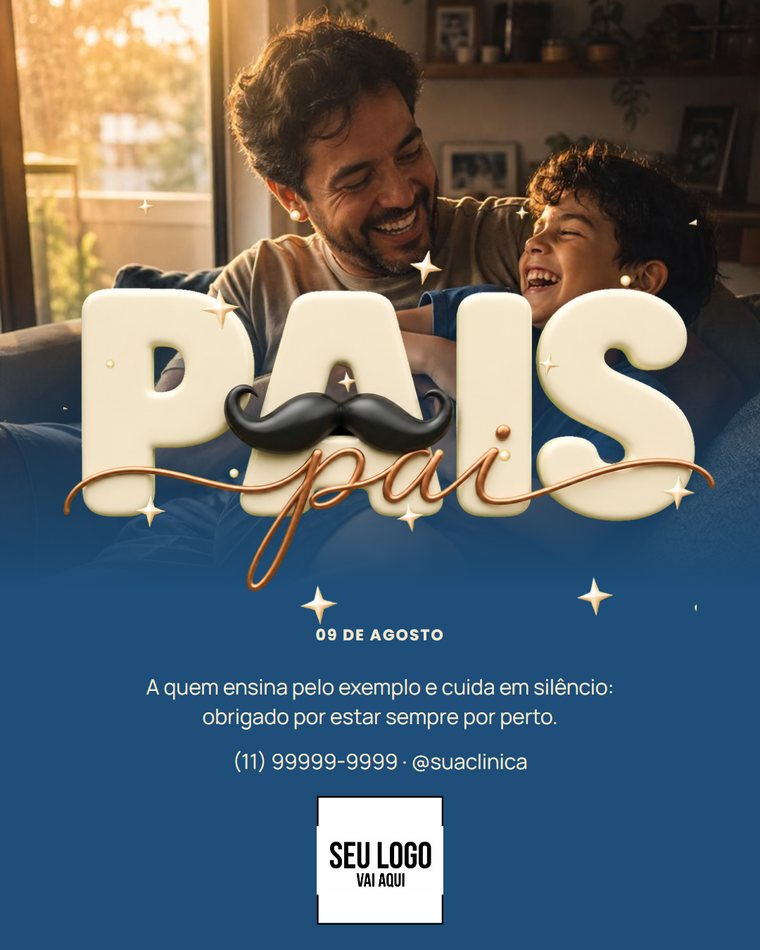
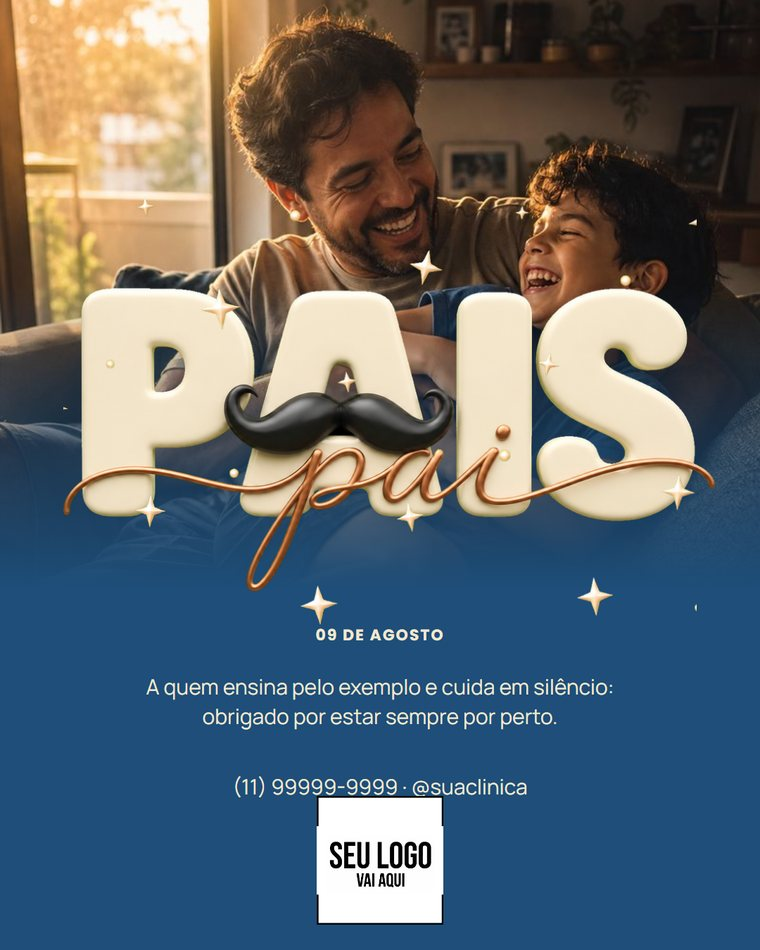
clinical se veste da marca: accent vira variavel (inclusive no duo-tom)
O bold recolore inteiro com a primary do usuario; o clinical tinha o teal
cravado em 7 dos 8 exemplares. A lei ja existia em geral.md ("Cor da marca
em caixas") — o pack simplesmente a violava.

12 elementos ganharam data-variable="primary": CTAs, blocos de acento,
numeros gigantes, sections invertidas e os spans de duo-tom.

Motor: o span dentro de texto nao propagava a variavel. O conversor emitia
so { fill } por caractere, entao a palavra destacada da headline — que e a
ASSINATURA do clinical — ficava cravada. Agora emite fillVariableConfig por
caractere, a estrutura que a plataforma ja espera.

Ink, paper, muted e wm continuam cravados de proposito: sao a paleta
estrutural do estilo. Recolorir tudo faria o pack virar "qualquer pack na
cor do cliente".

De quebra, 4 exemplares tinham sobreposicao nao declarada e so renderizavam
(o browser tolera, o convert nao) — os 16 agora passam no corredor.

Changed region(s): [[0.3026, 0.7937, 0.6961, 0.8547]]

diff --git a/packs/clinical-photo-editorial/exemplos/ref-par-espelhado.html b/packs/clinical-photo-editorial/exemplos/ref-par-espelhado.html
@@ -13,11 +13,11 @@
     <span class="ds-eyebrow" data-el-id="e6a" data-static style="grid-area: 2 / 2 / 3 / 7">DURANTE A SESSÃO</span>
     <h2 class="ds-headline" data-el-id="e6b" data-template-element
         data-te-description="tese" data-te-min-chars="10" data-te-max-chars="40"
-        style="grid-area: 3 / 2 / 6 / 7">A APLICAÇÃO SEGUE O <span data-tone="accent">PLANO</span>.</h2>
+        style="grid-area: 3 / 2 / 6 / 7">A APLICAÇÃO SEGUE O <span data-tone="accent" data-variable="primary">PLANO</span>.</h2>
     <p class="ds-body" data-el-id="e6c" data-template-element
        data-te-description="apoio" data-te-min-chars="20" data-te-max-chars="110"
        style="grid-area: 6 / 2 / 8 / 7">Área, dose e tempo saem da avaliação — não de um protocolo padrão.</p>
-    <span class="ds-number" data-el-id="e6d" data-static data-size="lg" data-tone="accent"
+    <span class="ds-number" data-el-id="e6d" data-variable="primary" data-static data-size="lg" data-tone="accent"
           style="grid-area: 9 / 2 / 12 / 5">03</span>
   </section>
   <!-- E6b · PAR ESPELHADO (2/2) — foto continua da esquerda, leitura à DIREITA
@@ -28,11 +28,11 @@
           style="grid-area: 2 / 7 / 3 / 12">DEPOIS DELA</span>
     <h2 class="ds-headline" data-el-id="e6f" data-template-element data-align="right"
         data-te-description="tese" data-te-min-chars="10" data-te-max-chars="40"
-        style="grid-area: 3 / 7 / 6 / 12">O QUE VOCÊ SENTE <span data-tone="accent">VOLTA</span>.</h2>
+        style="grid-area: 3 / 7 / 6 / 12">O QUE VOCÊ SENTE <span data-tone="accent" data-variable="primary">VOLTA</span>.</h2>
     <p class="ds-body" data-el-id="e6g" data-template-element data-align="right"
        data-te-description="apoio" data-te-min-chars="20" data-te-max-chars="110"
        style="grid-area: 6 / 7 / 8 / 12">Cada relato ajusta a próxima sessão. É assim que o plano acompanha você.</p>
-    <a class="ds-cta" data-el-id="e6h" data-template-element
+    <a class="ds-cta" data-el-id="e6h" data-variable="primary" data-template-element
        data-te-description="cta" data-te-min-chars="6" data-te-max-chars="28"
        style="grid-area: 10 / 7 / 11 / 12">SALVE ESTE GUIA</a>
   </section>

diff --git a/packs/emotive-fullbleed-lettering/exemplos/ref-anatomia-da-peca.html b/packs/emotive-fullbleed-lettering/exemplos/ref-anatomia-da-peca.html
@@ -17,14 +17,14 @@
          src="lettering-pais.png" style="grid-area: 4 / 1 / 9 / 13">
     <img class="ds-photo" data-el-id="u4" data-static data-layer data-image-type="generated"
          src="sparkles.png" style="grid-area: 3 / 2 / 10 / 12">
-    <span class="ds-eyebrow" data-el-id="u5" data-static data-tone="paper" data-align="center"
+    <span class="ds-eyebrow" data-el-id="u5" data-layer data-static data-tone="paper" data-align="center"
           style="grid-area: 9 / 4 / 10 / 10">09 DE AGOSTO</span>
-    <p class="ds-body" data-el-id="u6" data-template-element data-tone="paper" data-align="center"
+    <p class="ds-body" data-el-id="u6" data-layer data-template-element data-tone="paper" data-align="center"
        data-te-description="homenagem" data-te-min-chars="20" data-te-max-chars="120"
        style="grid-area: 10 / 3 / 11 / 11">A quem ensina pelo exemplo e cuida em silêncio: obrigado por estar sempre por perto.</p>
-    <p class="ds-body" data-el-id="u7" data-static data-tone="paper" data-align="center"
-       data-text-type="phone" style="grid-area: 11 / 3 / 12 / 11">(11) 99999-9999 · @suaclinica</p>
-    <img class="ds-slot" data-el-id="u8" data-static data-slot="logo" data-inset="bottom"
+    <p class="ds-body" data-el-id="u7" data-layer data-static data-tone="paper" data-align="center"
+       data-text-type="phone" style="grid-area: 11 / 3 / 12 / 11" data-inset="top">(11) 99999-9999 · @suaclinica</p>
+    <img class="ds-slot" data-el-id="u8" data-layer data-static data-slot="logo" data-inset="bottom"
          src="logo.png" style="grid-area: 12 / 6 / 13 / 8">
   </section>
 </main>

diff --git a/engine/convert.js b/engine/convert.js
@@ -112,7 +112,9 @@ const rgb2hex = (c) => {
         if (n.nodeType === 3 && n.textContent) runs.push({ t: n.textContent.replace(/\\+n/g, "\n"), color: s.color });
         else if (n.nodeType === 1 && n.tagName === "BR") runs.push({ t: "\n", color: s.color });
         else if (n.nodeType === 1 && (n.tagName === "SPAN" || n.tagName === "B" || n.tagName === "EM")) {
-          runs.push({ t: (n.innerText || "").replace(/\\+n/g, "\n"), color: getComputedStyle(n).color });
+          // data-variable no span = palavra que se recolore com a marca (duo-tom)
+          runs.push({ t: (n.innerText || "").replace(/\\+n/g, "\n"), color: getComputedStyle(n).color,
+            variable: n.getAttribute("data-variable") || null });
         } else if (n.nodeType === 1) {
           rejects.push({ id: el.getAttribute("data-el-id"), reason: `filho <${n.tagName.toLowerCase()}> dentro de componente de texto (só span/b/em/br)` });
         }
@@ -292,7 +294,10 @@ const rgb2hex = (c) => {
       let t = n.upper ? run.t.toUpperCase() : run.t;
       for (const ch of t) {
         if (ch === "\n") { line++; col = 0; text += ch; continue; }
-        if (runFill && runFill !== baseFill) (styles[line] ||= {})[col] = { fill: runFill };
+        if (runFill && runFill !== baseFill)
+          (styles[line] ||= {})[col] = { fill: runFill,
+            // span com data-variable: a palavra acompanha a marca do usuário
+            ...(run.variable ? { fillVariableConfig: { type: "solid", variable: run.variable, alpha: 1 } } : {}) };
         text += ch; col++;
       }
     }

diff --git a/packs/emotive-fullbleed-lettering/exemplos/ref-extensao.html b/packs/emotive-fullbleed-lettering/exemplos/ref-extensao.html
@@ -13,14 +13,14 @@
          src="photo-emocional.jpg" style="grid-area: 1 / 1 / 13 / 13">
     <div class="ds-block" data-el-id="x2" data-overlay-gradient="primary" data-layer
          style="grid-area: 1 / 1 / 13 / 13"></div>
-    <h2 class="ds-headline" data-el-id="x3" data-template-element data-tone="paper"
+    <h2 class="ds-headline" data-el-id="x3" data-layer data-template-element data-tone="paper"
         data-case="sentence" data-align="center"
         data-te-description="mensagem" data-te-min-chars="10" data-te-max-chars="60"
         style="grid-area: 7 / 2 / 9 / 12">Cuidar também é presença.</h2>
-    <p class="ds-body" data-el-id="x4" data-template-element data-tone="paper" data-align="center"
+    <p class="ds-body" data-el-id="x4" data-layer data-template-element data-tone="paper" data-align="center"
        data-te-description="apoio" data-te-min-chars="20" data-te-max-chars="130"
        style="grid-area: 9 / 3 / 11 / 11">Neste mês, nossa equipe está à disposição para conversar sobre o que o seu pai precisa.</p>
-    <img class="ds-slot" data-el-id="x5" data-static data-slot="logo" data-inset="bottom"
+    <img class="ds-slot" data-el-id="x5" data-layer data-static data-slot="logo" data-inset="bottom"
          src="logo.png" style="grid-area: 12 / 6 / 13 / 8">
   </section>
 </main>

diff --git a/packs/clinical-photo-editorial/exemplos/ref-cta.html b/packs/clinical-photo-editorial/exemplos/ref-cta.html
@@ -22,13 +22,13 @@
 
     <h2 class="ds-headline" data-el-id="f4" data-align="right" data-layer data-template-element
         data-te-description="tese do fechamento" data-te-min-chars="8" data-te-max-chars="34"
-        style="grid-area: 3 / 4 / 6 / 12">PERGUNTE.<br><span data-tone="accent">ENTENDA.</span></h2>
+        style="grid-area: 3 / 4 / 6 / 12">PERGUNTE.<br><span data-tone="accent" data-variable="primary">ENTENDA.</span></h2>
 
     <p class="ds-body" data-el-id="f5" data-align="right" data-template-element
        data-te-description="apoio curto" data-te-min-chars="20" data-te-max-chars="110"
        style="grid-area: 6 / 7 / 8 / 12">Objetivo, parâmetros e sinais fazem parte da conversa — leve suas dúvidas.</p>
 
-    <a class="ds-cta" data-el-id="f6" data-template-element
+    <a class="ds-cta" data-el-id="f6" data-variable="primary" data-template-element
        data-te-description="cta" data-te-min-chars="6" data-te-max-chars="26"
        style="grid-area: 9 / 8 / 10 / 12">SALVE ESTE GUIA</a>
 

diff --git a/packs/clinical-photo-editorial/exemplos/ref-foto-metade-sangrando.html b/packs/clinical-photo-editorial/exemplos/ref-foto-metade-sangrando.html
@@ -17,11 +17,11 @@
           style="grid-area: 2 / 2 / 3 / 7">PRIMEIRO: CONTEXTO</span>
     <h2 class="ds-headline" data-el-id="e1c" data-template-element
         data-te-description="tese" data-te-min-chars="10" data-te-max-chars="40"
-        style="grid-area: 3 / 2 / 6 / 7">DOR NÃO É UM <span data-tone="accent">BOTÃO SÓ</span>.</h2>
+        style="grid-area: 3 / 2 / 6 / 7">DOR NÃO É UM <span data-tone="accent" data-variable="primary">BOTÃO SÓ</span>.</h2>
     <p class="ds-body" data-el-id="e1d" data-template-element
        data-te-description="apoio" data-te-min-chars="20" data-te-max-chars="110"
        style="grid-area: 6 / 2 / 8 / 7">Diagnóstico, carga, rotina e objetivo entram na conversa antes do protocolo.</p>
-    <span class="ds-number" data-el-id="e1e" data-static data-size="lg" data-tone="accent"
+    <span class="ds-number" data-el-id="e1e" data-variable="primary" data-static data-size="lg" data-tone="accent"
           style="grid-area: 9 / 2 / 12 / 5">02</span>
   </section>
 </main>

diff --git a/packs/clinical-photo-editorial/exemplos/ref-full-bleed-com-faixa.html b/packs/clinical-photo-editorial/exemplos/ref-full-bleed-com-faixa.html
@@ -12,8 +12,8 @@
   <section class="slide" data-role="item">
     <img class="ds-photo" data-el-id="e2a" data-static data-image-type="generated"
          src="foto-larga.jpg" style="grid-area: 1 / 1 / 13 / 13">
-    <span class="ds-stamp" data-el-id="e2b" data-static style="grid-area: 2 / 2 / 3 / 8">LUZ DE BAIXA INTENSIDADE</span>
-    <div class="ds-block" data-el-id="e2c" data-static data-layer
+    <span class="ds-stamp" data-el-id="e2b" data-static data-layer style="grid-area: 2 / 2 / 3 / 8">LUZ DE BAIXA INTENSIDADE</span>
+    <div class="ds-block" data-el-id="e2c" data-variable="primary" data-static data-layer
          style="grid-area: 8 / 1 / 13 / 13"></div>
     <h2 class="ds-headline" data-el-id="e2d" data-template-element data-tone="paper" data-layer
         data-te-description="tese" data-te-min-chars="10" data-te-max-chars="42"

diff --git a/packs/clinical-photo-editorial/exemplos/ref-capa.html b/packs/clinical-photo-editorial/exemplos/ref-capa.html
@@ -32,9 +32,9 @@
     <!-- duo-tom: primeira palavra em ink, segunda em accent, uma sob a outra -->
     <h1 class="ds-headline" data-el-id="a6" data-size="lg" data-layer data-template-element
         data-te-description="tese da capa" data-te-min-chars="8" data-te-max-chars="34"
-        style="grid-area: 5 / 2 / 9 / 12">CUIDADOS<br><span data-tone="accent">ESSENCIAIS</span></h1>
+        style="grid-area: 5 / 2 / 9 / 12">CUIDADOS<br><span data-tone="accent" data-variable="primary">ESSENCIAIS</span></h1>
 
-    <a class="ds-cta" data-el-id="a7" data-template-element
+    <a class="ds-cta" data-el-id="a7" data-variable="primary" data-template-element
        data-te-description="cta da capa" data-te-min-chars="6" data-te-max-chars="26"
        style="grid-area: 10 / 2 / 11 / 6">LEIA A LEGENDA</a>
 

diff --git a/packs/clinical-photo-editorial/exemplos/ref-display-com-decor.html b/packs/clinical-photo-editorial/exemplos/ref-display-com-decor.html
@@ -15,7 +15,7 @@
     <span class="ds-eyebrow" data-el-id="e5b" data-static style="grid-area: 2 / 2 / 3 / 8">O QUE MUDA</span>
     <h2 class="ds-headline" data-el-id="e5c" data-size="lg" data-template-element
         data-te-description="tese" data-te-min-chars="8" data-te-max-chars="30"
-        style="grid-area: 4 / 2 / 8 / 12">SESSÃO A <span data-tone="accent">SESSÃO</span>.</h2>
+        style="grid-area: 4 / 2 / 8 / 12">SESSÃO A <span data-tone="accent" data-variable="primary">SESSÃO</span>.</h2>
     <p class="ds-body" data-el-id="e5d" data-template-element
        data-te-description="apoio" data-te-min-chars="20" data-te-max-chars="120"
        style="grid-area: 8 / 2 / 10 / 9">O plano conversa com você: o que você sente volta para o acompanhamento.</p>

diff --git a/packs/bold-educacional/exemplos/ref-numero-dado.html b/packs/bold-educacional/exemplos/ref-numero-dado.html
@@ -11,7 +11,7 @@
   <section class="slide" data-role="fechamento">
     <span class="ds-eyebrow" data-el-id="d1" data-static style="grid-area: 2 / 2 / 3 / 10">O QUE A EVIDÊNCIA MOSTRA</span>
     <span class="ds-number" data-el-id="d2" data-static data-size="lg" data-tone="accent"
-          style="grid-area: 3 / 2 / 6 / 8">6 a 12</span>
+          style="grid-area: 3 / 2 / 5 / 8">6 a 12</span>
     <h2 class="ds-headline" data-el-id="d3" data-case="sentence" data-template-element
         data-te-description="o que o numero significa" data-te-min-chars="10" data-te-max-chars="46"
         style="grid-area: 5 / 2 / 8 / 11">sessões é a faixa mais estudada.</h2>

diff --git a/knowledge/design/geral.md b/knowledge/design/geral.md
@@ -55,10 +55,16 @@ em run, o tratamento vem do `tecnicas.md` do pack em uso.
 
 ## Cor da marca em caixas
 
-Todo elemento de CAIXA CHEIA em cor de acento (tarja, pill de CTA, bloco,
-overlay) leva `data-variable="primary"` — o conversor emite `fillVariableConfig`
-e a caixa se recolore com a marca do usuário, como os fundos chapados. Acento
-cravado sem variável é defeito: a peça inteira deve se vestir da primary.
+Todo elemento em cor de acento leva `data-variable="primary"` — caixa cheia
+(tarja, pill de CTA, bloco, overlay), forma, número gigante, **e a palavra
+destacada do duo-tom** (`<span data-tone="accent" data-variable="primary">`, que
+vira `fillVariableConfig` por caractere). Acento cravado sem variável é defeito:
+a peça inteira deve se vestir da primary.
+
+**O que NÃO se variabiliza**: `ink`, `paper`, `muted` e `wm` são a paleta
+estrutural do estilo (o papel menta do clinical, o cream do bold). Se
+recolorissem, o pack perderia identidade e viraria "qualquer pack na cor do
+cliente" — o que se veste da marca é o ACENTO, não o fundo do estilo.
 
 ## Miolo não é versão pobre da capa
 

diff --git a/engine/CATALOG.md b/engine/CATALOG.md
@@ -90,7 +90,7 @@ Modificadores globais: `data-tone` (ink/muted/accent/paper/accent-ink) ·
 | `data-static` | sem templateElement |
 | `data-text-type="instagramName\|instagramHandle\|phone\|address"` | `textType` (exclusivo com template-element) |
 | `data-image-type` | `imageType` (em `ds-slot` o default é o valor de `data-slot`) |
-| `data-variable="primary\|secondary"` (+ `data-variable-target="background"` na section) | `fillVariableConfig` / background variável |
+| `data-variable="primary\|secondary"` (+ `data-variable-target="background"` na section) | `fillVariableConfig` / background variável. Vale em caixa, forma, texto E **em `<span>` dentro de texto** — o span vira `fillVariableConfig` por caractere no `styles`, que é como o duo-tom recolore com a marca |
 
 ## SVG — só geometria de composição, NUNCA imagem
 
